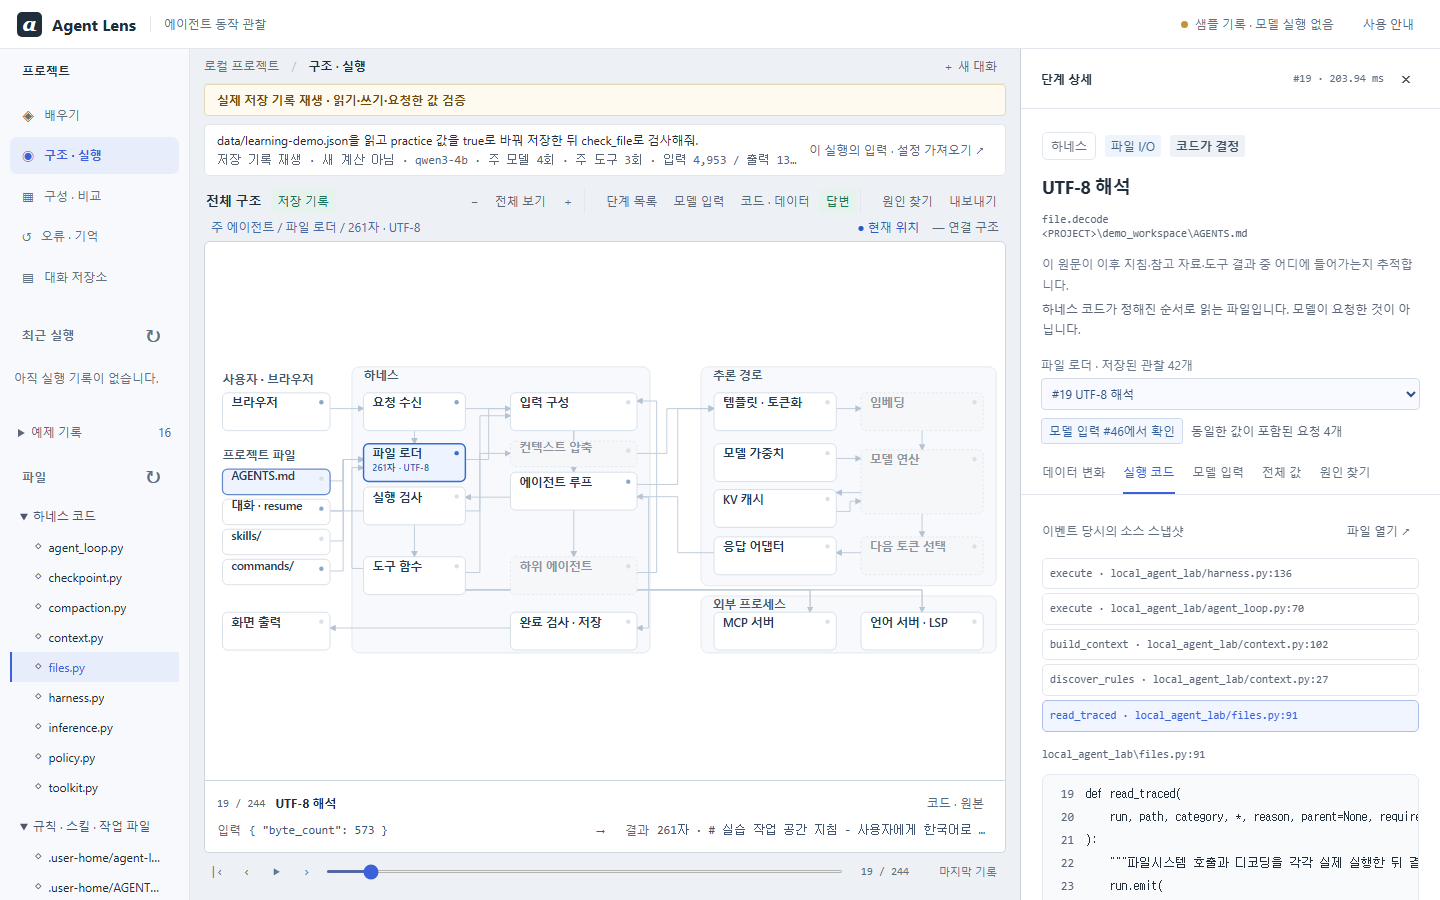
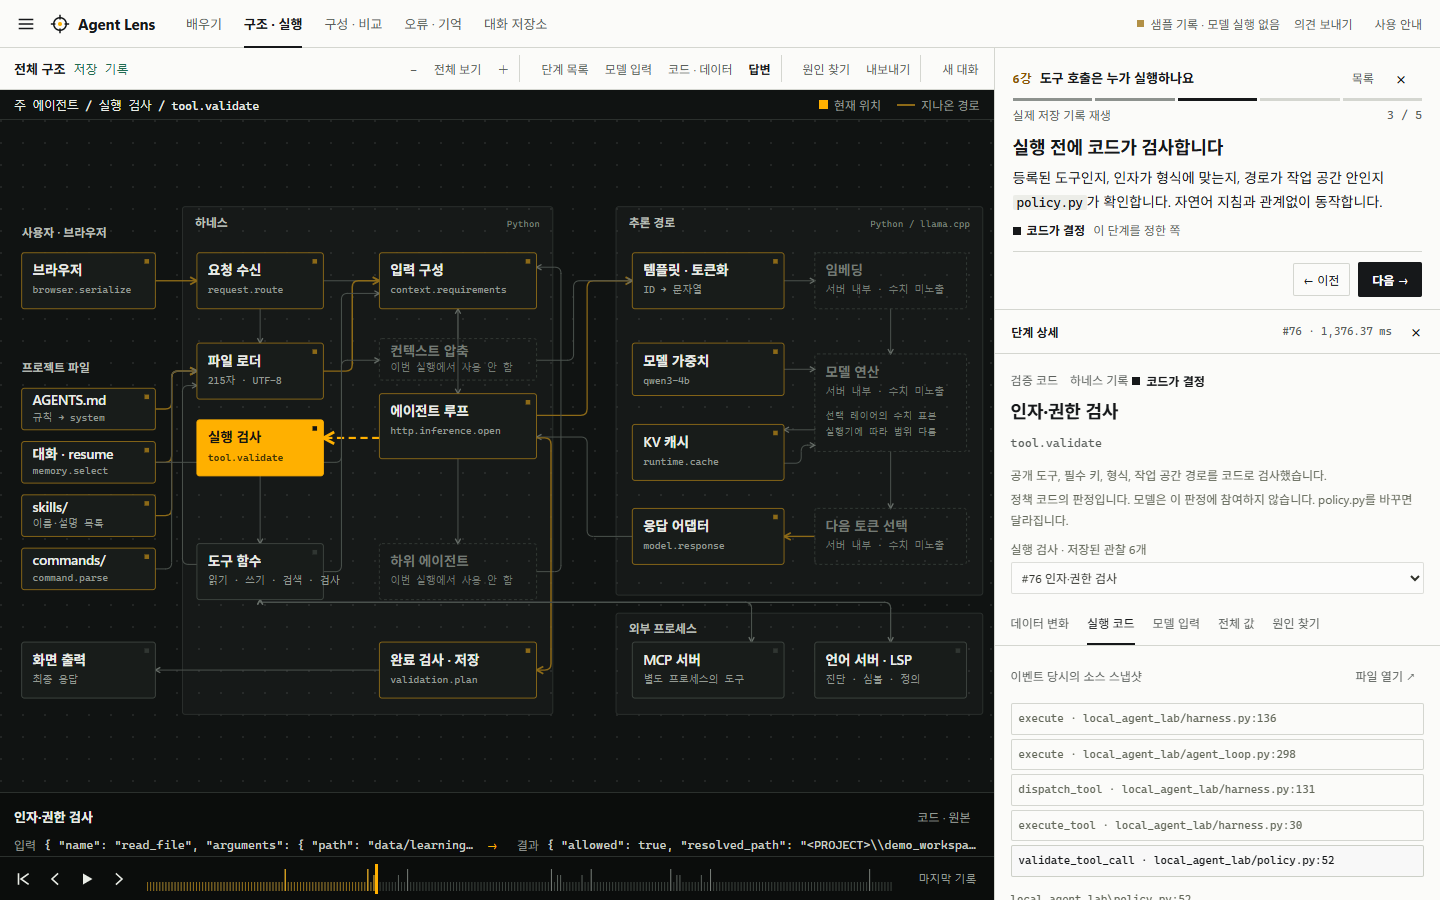
0.7.0: 변경 기록, 화면 사진, 버전 올림

diff --git a/local_agent_lab/integrations.py b/local_agent_lab/integrations.py
@@ -59,7 +59,7 @@ def mcp_params(client, params=None):
             "io.modelcontextprotocol/clientCapabilities": {},
             "io.modelcontextprotocol/clientInfo": {
                 "name": "Agent Lens",
-                "version": "0.6.1",
+                "version": "0.7.0",
             },
         },
     }
@@ -83,7 +83,7 @@ def prepare_mcp(run, config):
             {
                 "protocolVersion": "2025-11-25",
                 "capabilities": {},
-                "clientInfo": {"name": "Agent Lens", "version": "0.6.1"},
+                "clientInfo": {"name": "Agent Lens", "version": "0.7.0"},
             },
         )
         if info.get("protocolVersion") != "2025-11-25":
@@ -283,7 +283,7 @@ def prepare_lsp(run, config, workspace):
                 "capabilities": {
                     "textDocument": {"publishDiagnostics": {"versionSupport": True}}
                 },
-                "clientInfo": {"name": "Agent Lens", "version": "0.6.1"},
+                "clientInfo": {"name": "Agent Lens", "version": "0.7.0"},
             },
         )
         client.notify(run, "initialized")

diff --git a/local_agent_lab/demo_mcp_server.py b/local_agent_lab/demo_mcp_server.py
@@ -4,7 +4,7 @@ import json
 import sys
 
 VERSION = "2026-07-28"
-INFO = {"name": "agent-lens-math", "version": "0.6.1"}
+INFO = {"name": "agent-lens-math", "version": "0.7.0"}
 TOOL = {
     "name": "add",
     "description": "Add two integers in the separate local MCP process.",

diff --git a/docs/WALKTHROUGH.md b/docs/WALKTHROUGH.md
@@ -6,7 +6,7 @@
 
 ## 1. AGENTS.md를 읽는 주체
 
-왼쪽 **예제 기록**을 펼쳐 **읽기·쓰기·요청한 값 검증**을 선택합니다. **단계 목록**을 열어 `file.read`와 `file.decode`를 선택하거나 구조도의 파일 로더를 누릅니다. **코드 · 원본**에서 호출 스택과 당시 강조 줄을 확인합니다.
+왼쪽 위 메뉴(☰)에서 **예제 기록**을 펼쳐 **읽기·쓰기·요청한 값 검증**을 선택합니다. **단계 목록**을 열어 `file.read`와 `file.decode`를 선택하거나 구조도의 파일 로더를 누릅니다. **코드 · 원본**에서 호출 스택과 당시 강조 줄을 확인합니다.
 
 ![AGENTS.md 파일 읽기와 당시 코드](images/architecture.png)
 
@@ -44,7 +44,7 @@
 
 단계 상세의 제목 위에 **모델이 선택**, **코드가 결정**, **설정·파일에서 옴** 같은 표시가 있습니다. 같은 파일 읽기도 자동 로딩이면 코드가, `read_file` 요청이면 모델이 정한 것입니다. 단계 목록의 **전체 결정 주체**에서 모델이 고른 단계만 걸러 볼 수 있습니다.
 
-왼쪽 **반복 응답을 3회에서 중단** 기록을 열고 **원인 찾기 → 원인 설명**을 봅니다. 실행기·설정, 도구·하네스, 모델 입력은 기록상 문제가 없고 모델이 필수 도구를 부르지 않았다는 사실이 층별로 나옵니다. 이것은 살펴볼 곳을 좁힌 것이지 원인을 증명한 것이 아닙니다. 완료한 기록에서는 코드가 확인한 것과 확인하지 않은 것을 나눠 보여 줍니다.
+왼쪽 위 메뉴(☰)에서 **반복 응답을 3회에서 중단** 기록을 열고 **원인 찾기 → 원인 설명**을 봅니다. 실행기·설정, 도구·하네스, 모델 입력은 기록상 문제가 없고 모델이 필수 도구를 부르지 않았다는 사실이 층별로 나옵니다. 이것은 살펴볼 곳을 좁힌 것이지 원인을 증명한 것이 아닙니다. 완료한 기록에서는 코드가 확인한 것과 확인하지 않은 것을 나눠 보여 줍니다.
 
 ## 6. 멈춘 작업을 이어서 실행한다
 

diff --git a/CHANGELOG.md b/CHANGELOG.md
@@ -1,5 +1,30 @@
 # 변경 기록
 
+## 0.7.0
+
+구조도를 화면의 중심으로 다시 배치하고 디자인을 새로 정리했습니다. 사용자가 의견을 남길 경로도 넣었습니다.
+
+### 변경
+
+- 구조도 칸의 크기는 이제 창 크기로만 정해집니다. 강의 글, 상세, 단계 목록은 오른쪽 칸 안에서만 늘고 줄어듭니다. 이전에는 1024×768 창에서 강의 단계에 따라 구조도 높이가 301px에서 92px까지 바뀌었습니다.
+- 어두운 구조도 화면에 현재 위치와 지나온 경로를 표시합니다. 구조도를 원래 비율로 그려 글자를 키웠습니다.
+- 재생 막대에 실행의 리듬(모델 호출·도구·그 밖의 단계)을 표시합니다.
+- 주 메뉴를 위로 옮기고, 기록과 파일은 왼쪽 위 메뉴에서 엽니다. 단계 목록은 오른쪽 칸의 기본 내용입니다.
+- 누가 정했는지를 색 띠 대신 모양과 글자로 표시합니다.
+- 배우기 화면을 목차 형식으로 바꾸고 처리 흐름을 첫 화면에 넣었습니다.
+
+### 추가
+
+- 의견 보내기: 앱과 강의 끝에서 GitHub 이슈 양식으로 연결합니다. 앱은 사용 기록을 수집하지 않으며, 링크는 버전과 화면 이름만 양식에 채웁니다.
+- 구성 · 비교, 오류 · 기억, 대화 저장소 화면에도 주소가 생겼습니다.
+
+### 수정
+
+- 웹 데모: 할 수 없는 동작을 시키던 안내를 고치고, 동작하지 않는 저장·검사 단추를 숨겼습니다.
+- 휴대폰 폭에서 상단 글자가 세로로 무너지던 문제와 상세 탭이 낱말 중간에서 줄바꿈되던 문제를 고쳤습니다.
+- 단계 목록이 현재 단계로 이동합니다. 강의 중에는 강의 진행만 번호로 표시합니다.
+- 샘플 보기에서 오류 · 기억, 대화 저장소를 열면 내용이 있는 예제를 먼저 불러옵니다.
+
 ## 0.6.1
 
 공개 전에 네 방향으로 다시 검토해 찾은 결함을 고치고, 설치 없이 볼 수 있는 웹 데모를 추가했습니다.

diff --git a/docs/REVIEW.md b/docs/REVIEW.md
@@ -27,7 +27,7 @@ uv run --extra reference --extra integrations --offline python -m unittest disco
 node --test tests/architecture.test.cjs tests/inspection.test.cjs tests/editor.test.cjs tests/settings.test.cjs tests/export_search.test.cjs tests/lessons.test.cjs
 ```
 
-Python 테스트 261개와 화면(Node) 테스트 38개를 실행합니다. 모의 모델로 도구 루프·권한·완료 조건·기억·편집·HTTP 경계를 검사합니다. Windows에서는 `test_launcher`가 실제 Windows PowerShell과 curl을 실행해 런처의 네이티브 명령 처리를 검사합니다(모델 다운로드 없음). 작은 무작위 Qwen 모델로 실제 KV 사용/전체 재계산의 결과와 접두부 처리를 검사합니다. MCP는 별도 stdio 프로세스를, LSP는 설치된 실제 pylsp의 진단·심볼·정의·문서 변경을 검사합니다. 모드 검증에는 독립 하위 컨텍스트·권한 제한·실제 결과 합류·대기 중 중지 전파·에이전트별 지적 연결을 포함합니다. 이 숫자는 다운로드한 모델이 모든 지시를 잘 따른다는 뜻이 아닙니다.
+Python 테스트 261개와 화면(Node) 테스트 41개를 실행합니다. 모의 모델로 도구 루프·권한·완료 조건·기억·편집·HTTP 경계를 검사합니다. Windows에서는 `test_launcher`가 실제 Windows PowerShell과 curl을 실행해 런처의 네이티브 명령 처리를 검사합니다(모델 다운로드 없음). 작은 무작위 Qwen 모델로 실제 KV 사용/전체 재계산의 결과와 접두부 처리를 검사합니다. MCP는 별도 stdio 프로세스를, LSP는 설치된 실제 pylsp의 진단·심볼·정의·문서 변경을 검사합니다. 모드 검증에는 독립 하위 컨텍스트·권한 제한·실제 결과 합류·대기 중 중지 전파·에이전트별 지적 연결을 포함합니다. 이 숫자는 다운로드한 모델이 모든 지시를 잘 따른다는 뜻이 아닙니다.
 
 ## 실제 모델과 화면 검증
 
